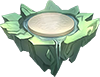
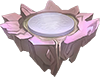
宝箱能量蛋样式调节

diff --git a/pages/pet/pet.vue b/pages/pet/pet.vue
@@ -242,14 +242,15 @@
 			</view>
 		</modalComponent>
 		
-		<modalComponent v-if="modal == 'help_open_box_rank'" title="全服开箱排行榜" @closeModal="modal='';rankList=[];rankListPage=1">
+		<modalComponent v-if="modal == 'help_open_box_rank'" title="排行" @closeModal="modal='';rankList=[];rankListPage=1">
 			<view class="invit-modal-container">
 
 				<scroll-view scroll-y class="list-wrapper" @scrolltolower='rankListPage++; getOpenBoxRankList()'>
-					<view class="explain-wrapper">
+					<view class="explain-wrapper" style="padding: 20rpx;">
+						<view style="font-size: 28rpx; font-weight: bold;">助力开箱排行榜(每日更新)</view>
 						<view style="display: flex; justify-content: space-between; align-items: center;">
 							<view>我的排名:{{my_help_open_rank}}</view>
-							<view>助力次数:{{my_help_open_times}}</view>
+							<view>助力开箱:{{my_help_open_times}}次</view>
 						</view>
 					</view>
 					<block v-if="rankList.length > 0">
@@ -265,8 +266,8 @@
 								<view class="star-name text-overflow">{{item.nickname}}</view>
 							</view>
 							<view style="flex: 1 1 0%;font-size: 12px;display: flex;align-items: center;flex-direction: column;justify-content: flex-end;">
-								<view>助力次数</view>
-								<view>{{item.help_open_times}}</view>
+								<view>助力开箱</view>
+								<view>{{item.help_open_times}}次</view>
 							</view>	
 						</view>
 					</block>
@@ -278,7 +279,7 @@
 			</view>
 		</modalComponent>
 		
-		<modalComponent v-if="modal == 'treasure_box_times_tips'" title="提示" @closeModal="modal='invit'">
+		<modalComponent v-if="modal == 'treasure_box_times_tips'" title="提示" @closeModal="modal='invit';help_friend_id = ''">
 			<view class="tips-modal-container">
 				<view class="text-wrap" style="text-align: center;">
 					<view class="text" style="font-size: 32upx;font-weight: 700;">次数用尽</view>
@@ -286,7 +287,7 @@
 					<view class="text">可用20灵丹帮助开启</view>
 				</view>
 				<view class="flex-set">
-					<view class="btn" style="width: 240rpx;" @tap="open_other_treasure_box(help_friend_id);help_friend_id = ''">
+					<view class="btn" style="width: 240rpx;" @tap="open_other_treasure_box(help_friend_id);">
 						<btnComponent type="pink">
 							<view class="flex-set" style="width: 240upx;height: 80upx; font-size: 24rpx;">花费20灵丹开启</view>
 						</btnComponent>
@@ -378,7 +379,7 @@
 
 		</modalComponent>
 
-		<modalComponent v-if="modal == 'egg_upgrade'" title="能量蛋升级" @closeModal="modal=''">
+		<listModalComponent v-if="modal == 'egg_upgrade'" title="我的能量蛋" @closeModal="modal=''">
 
 			<view class="upgrade-modal-container">
 				<view class="title">当前:{{spriteInfo.egg_info.name}}</view>
@@ -386,30 +387,41 @@
 					<view class="flash"></view>
 					<image :src="spriteInfo.egg_info?spriteInfo.egg_info.icon:'/static/image/pet/egg/egg_1.png'" mode="widthFix"></image>
 				</view>
-
-				<view class="text-wrap">
-					<view class="text">当前可储存能量时间:{{spriteInfo.egg_info.storage_time}}小时</view>
-					<view class="text">下一级需要 灵丹x{{spriteInfo.next_egg_info.need_stone}}</view>
-					<view class="text">
-						<text class="">{{spriteInfo.egg_info.storage_time}}小时</text>
-						<text class="">-></text>
-						<text class="">{{spriteInfo.next_egg_info.storage_time}}小时</text>
+				<view style="display: flex;flex-direction: row;width: 100%; align-items: center; justify-content: space-around;">
+					<view class="text-wrap" v-if="spriteInfo.next_egg_info.level">
+						<view style="padding: 10rpx;">
+							<view class="text title-text">当前等级lv.{{spriteInfo.egg_info.level}}</view>
+							<view class="text">可储存能量时间:{{spriteInfo.egg_info.storage_time}}小时</view>
+						</view>
+						<view style="padding: 10rpx;">
+							<view class="text title-text">下一等级lv.{{spriteInfo.next_egg_info.level}}</view>
+							<view class="text">可储存能量时间:{{spriteInfo.next_egg_info.storage_time}}小时</view>
+						</view>
 					</view>
-				</view>
-				<view class="button" @tap="egg_upgrade(2)">
-					<btnComponent type="default">
-						<view class="flex-set" style="width: 240upx;height: 80upx;">升级</view>
-					</btnComponent>
+					<view class="text-wrap" v-else>
+						<view style="padding: 10rpx;">
+							<view class="text title-text">当前等级lv.{{spriteInfo.egg_info.level}},已是顶级</view>
+							<view class="text">可储存能量时间:{{spriteInfo.egg_info.storage_time}}小时</view>
+						</view>
+						
+					</view>
+					<view class="button" @tap="egg_upgrade(2)" v-if="spriteInfo.next_egg_info.level">
+						<btnComponent type="default">
+							<view class="flex-set" style="width: 240upx;height: 60upx;">升级 {{spriteInfo.next_egg_info.need_stone}}灵丹</view>
+						</btnComponent>
+					</view>
 				</view>
 
 			</view>
 
-		</modalComponent>
+		</listModalComponent>
 		
 		<modalComponent v-if="modal == 'open_treasure_box_tips'" title="打开宝箱" @closeModal="treasure_box();openBoxData = ''">
 		
 			<view class="open-box-modal-container">
-				<view class="top">今日24:00失效</view>
+				<view class="top" v-if="openBoxData.type==0">今日24:00失效</view>
+				<view class="top" v-else-if="openBoxData.type==1">每周日24:00清零</view>
+				<view class="top" v-else></view>
 				<view class="show_img">
 					<image style="width: 100%;" src="/static/image/pet/open_box.png" mode="widthFix"></image>
 					<image style="width: 180rpx; position: absolute; bottom: 0%; left: 15%;" :src="openBoxData.imgsrc?openBoxData.imgsrc:'https://mmbiz.qpic.cn/mmbiz_png/CbJC0icY3EzYDtytnskVf0eZwtl4xVKmxFdAicib8taV6ibQUzC8R0Ule7TxB2L1PMr1reibsPbkGEv1wfp5DYNftMg/0'" mode="widthFix"></image>
@@ -432,7 +444,9 @@
 		<modalComponent v-if="modal == 'open_other_treasure_box_tips'" title="帮助好友开箱" @closeModal="getInvitList();modal = 'invit';openOtherBoxData = ''">
 		
 			<view class="open-box-modal-container">
-				<view class="top">今日24:00失效</view>
+				<view class="top" v-if="openOtherBoxData.type==0">今日24:00失效</view>
+				<view class="top" v-else-if="openOtherBoxData.type==1">每周日24:00清零</view>
+				<view class="top" v-else></view>
 				<view class="show_img">
 					<image style="width: 100%;" src="/static/image/pet/open_box.png" mode="widthFix"></image>
 					<image style="width: 180rpx; position: absolute; bottom: 0%; left: 15%;" :src="openOtherBoxData.imgsrc?openOtherBoxData.imgsrc:'https://mmbiz.qpic.cn/mmbiz_png/CbJC0icY3EzYDtytnskVf0eZwtl4xVKmxFdAicib8taV6ibQUzC8R0Ule7TxB2L1PMr1reibsPbkGEv1wfp5DYNftMg/0'" mode="widthFix"></image>
@@ -1303,12 +1317,12 @@
 			content: "";
 			position: absolute;
 			z-index: 1;
-			width: 70upx;
+			width: 80upx;
 			height: 90upx;
 			top: -48upx;
 			border-radius: 50%;
-			left: 45upx;
-			background-color: #ce797c;
+			left: 40upx;
+			background-color: #fbbff5;
 			filter: blur(10upx);
 			animation: shine 1.5s linear infinite;
 		}
@@ -1358,8 +1372,8 @@
 					width: 100%;
 					border-radius: 20upx;
 					color: #FFF;
-					background-color: #ad9b97;
-					border: 4upx solid #68478e;
+					background-color: #dcdcdc;
+					border: 4upx solid #aa89bd;
 					text-align: center;
 					font-size: 20upx;
 					position: relative;
@@ -1372,7 +1386,7 @@
 						left: 0;
 						right: 0;
 						height: 100%;
-						background-color: $color_2;
+						background-color: #f19ec2;
 						z-index: -1;
 					}
 
@@ -1781,7 +1795,6 @@
 			flex-direction: column;
 			justify-content: center;
 			align-items: center;
-			padding: 30rpx 0;
 
 			.title {
 				font-size: 32rpx;
@@ -1812,12 +1825,18 @@
 			}
 
 			.text-wrap {
-				padding: 20rpx 0;
-				width: 100%;
+				padding: 20rpx;
 				display: flex;
 				flex-direction: column;
 				justify-content: center;
 				align-items: center;
+				.title-text{
+					border-left: 8rpx solid #ce797c; 
+					font-weight: bold;
+				}
+				.text{
+					padding: 5rpx 10rpx;
+				}
 			}
 		}
 

diff --git a/pages/subPages/pet/treasure_box/treasure_box_log.vue b/pages/subPages/pet/treasure_box/treasure_box_log.vue
@@ -5,8 +5,10 @@
 
 			<view class="item" v-for="(item,index) in logList" :key="index">
 				<view class="left-content">
-					<view class="content ">
-						<view class="top">获得:<text style="color: #F75A73; font-weight: bold;">[{{item.content}}]</text></view>
+					<view class="content">
+						<view class="top" v-if="item.help_user_info"><text style="color: #aa89bd; font-weight: bold;">{{item.help_user_info.nickname}}</text>帮我开出了<text style="color: #F75A73; font-weight: bold;">[{{item.content}}]</text></view>
+						<view class="top" v-else-if="item.helped_user_info">我帮<text style="color: #aa89bd; font-weight: bold;">{{item.helped_user_info.nickname}}</text>开出了<text style="color: #F75A73; font-weight: bold;">[{{item.content}}]</text></view>
+						<view class="top" v-else>我开出了<text style="color: #F75A73; font-weight: bold;">[{{item.content}}]</text></view>
 						<view class="bottom">{{item.create_time}}</view>
 					</view>
 				</view>
@@ -46,6 +48,9 @@
 							content: content,
 							imgsrc: v.treasure_box.imgsrc,
 							count: v.count,
+							help_user_id: v.help_user_id,
+							help_user_info: v.help_user_info,
+							helped_user_info: v.helped_user_info,
 							create_time: v.create_time.slice(5)
 						})
 					}

diff --git a/components/guildComponent.vue b/components/guildComponent.vue
@@ -731,7 +731,7 @@
 			</view>
 		</modalComponent>
 		
-		<modalComponent v-if="modal == 'treasure_box_times_tips'" title="提示" @closeModal="modal='invit'">
+		<modalComponent v-if="modal == 'treasure_box_times_tips'" title="提示" @closeModal="modal='invit';help_friend_id = ''">
 			<view class="tips-modal-container" style="display: flex; flex-direction: column; align-items: center;">
 				<view class="text-wrap" style="text-align: center;">
 					<view class="text" style="font-size: 32upx;font-weight: 700;">次数用尽</view>
@@ -739,7 +739,7 @@
 					<view class="text">可用20灵丹帮助开启</view>
 				</view>
 				<view class="flex-set">
-					<view class="btn" style="width: 240rpx;" @tap="open_other_treasure_box(help_friend_id);help_friend_id = ''">
+					<view class="btn" style="width: 240rpx;" @tap="open_other_treasure_box(help_friend_id);">
 						<btnComponent type="pink">
 							<view class="flex-set" style="width: 240upx;height: 80upx; font-size: 24rpx;">花费20灵丹开启</view>
 						</btnComponent>
